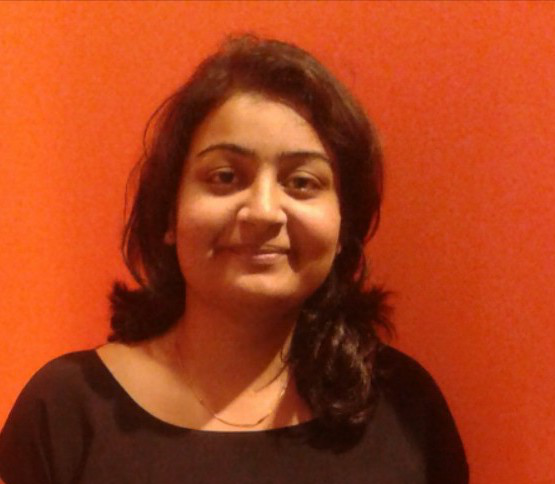
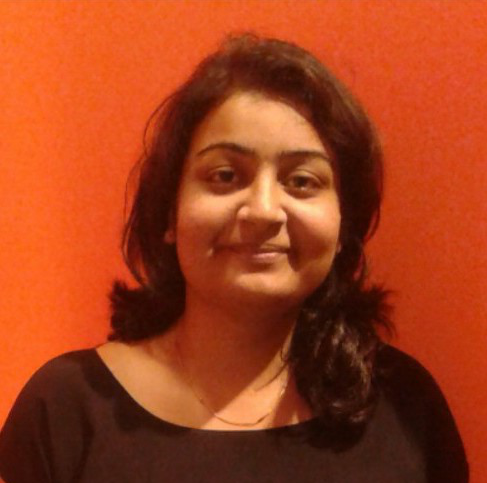
squared images and fixed spelling errors

diff --git a/team/nikola_banovic.html b/team/nikola_banovic.html
@@ -1,0 +1,20 @@
+---
+layout: page
+---
+<div class="home">
+
+    {% include icon-member-image.html name="Nikola Banovic" src_name="nikola_banovic" %}
+
+    <h1 class="page-heading">About</h1>
+
+    <p>My research focuses on understanding and modeling human behavior to support innovative information technology that will change how we study and design interactive user experiences. I envision modeling the human accurately across domains as a theoretical foundation for work in Human-Computer Interaction (HCI) in which computational models provide a foundation to study, describe, and understand complex human behaviors and support optimization and evaluation of user interfaces.</p>
+    <br>
+    <p>I work in domains of Computational Interaction, Behavior Data Analytics, and Human-Data Supported Interfaces to enable a future in which technology will automatically infer user goals, predict future user actions, describe common user behaviors, and even coach users. I create technology that automatically reasons about and acts in response to people’s behavior to help them be productive, healthy, and safe.</p>
+    <br>
+    <p>Before joining the <a href="https://www.umich.edu/">University of Michigan</a>, I received my Ph.D. degree from the <a href="https://www.hcii.cmu.edu/">Human-Computer Interaction Institute (HCII)</a> at <a href="https://www.cmu.edu">Carnegie Mellon University</a>, and my B.Sc. and M.Sc. degrees from the <a href="https://www.utoronto.ca/">University of Toronto</a>.</p>
+    <br>
+    <p>For more information, see my <a href="https://www.nikolabanovic.net/nikolabanovic_cv.pdf">Curriculum Vitae (CV)</a>.</p>
+
+
+
+</div>

diff --git a/index.html b/index.html
@@ -14,7 +14,7 @@ layout: default
     <div class="w3-col m4 l3">
       <h2 class="page-subheading">Advisers</h2>
       {% include icon-member.html name="David Jurgens" src_name="david_jurgens" %}
-      {% include icon-member.html name="Nikola Blanovic" src_name="nikola_blanovic" %}
+      {% include icon-member.html name="Nikola Banovic" src_name="nikola_banovic" %}
     </div>
     <div class="w3-col m8 l9">
       <h2 class="page-subheading">Students</h2>
@@ -23,7 +23,6 @@ layout: default
       {% include icon-member.html name="William Chen" src_name="william_chen" %}
       {% include icon-member.html name="Ryan Draves" src_name="ryan_draves" %}
       {% include icon-member.html name="Arushi Jain" src_name="arushi_jain" %}
-      {% include icon-member.html name="Renee Li" src_name="renee_li" %}
       {% include icon-member.html name="Yujian Liu" src_name="yujian_liu" %}
       {% include icon-member.html name="Bruce Park" src_name="bruce_park" %}
       {% include icon-member.html name="Sagnik Sinha Roy" src_name="sagnik_sinha_roy" %}
